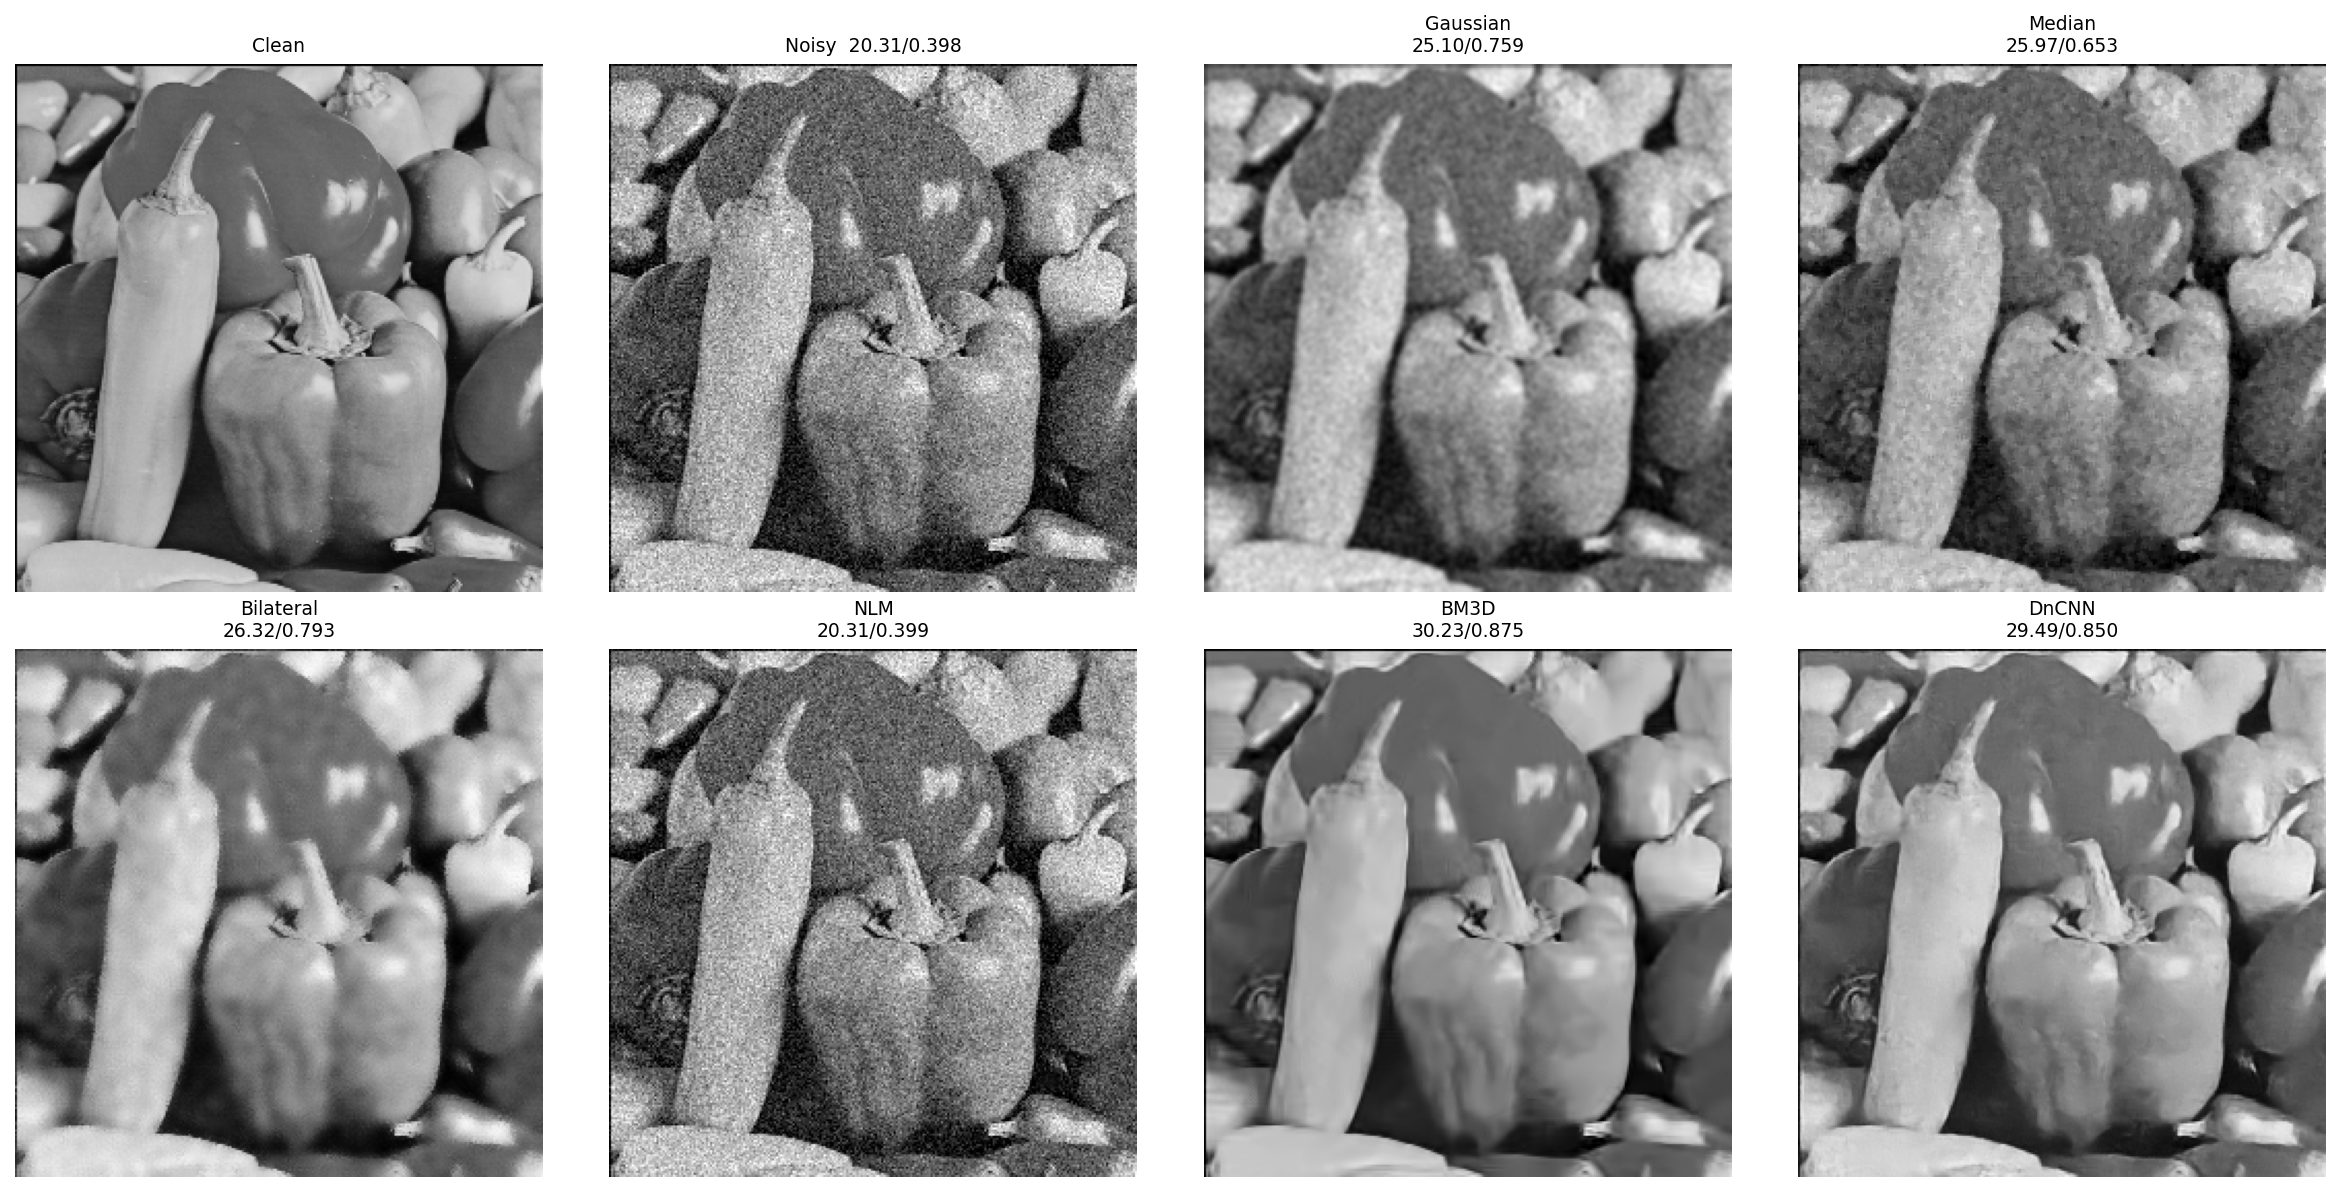
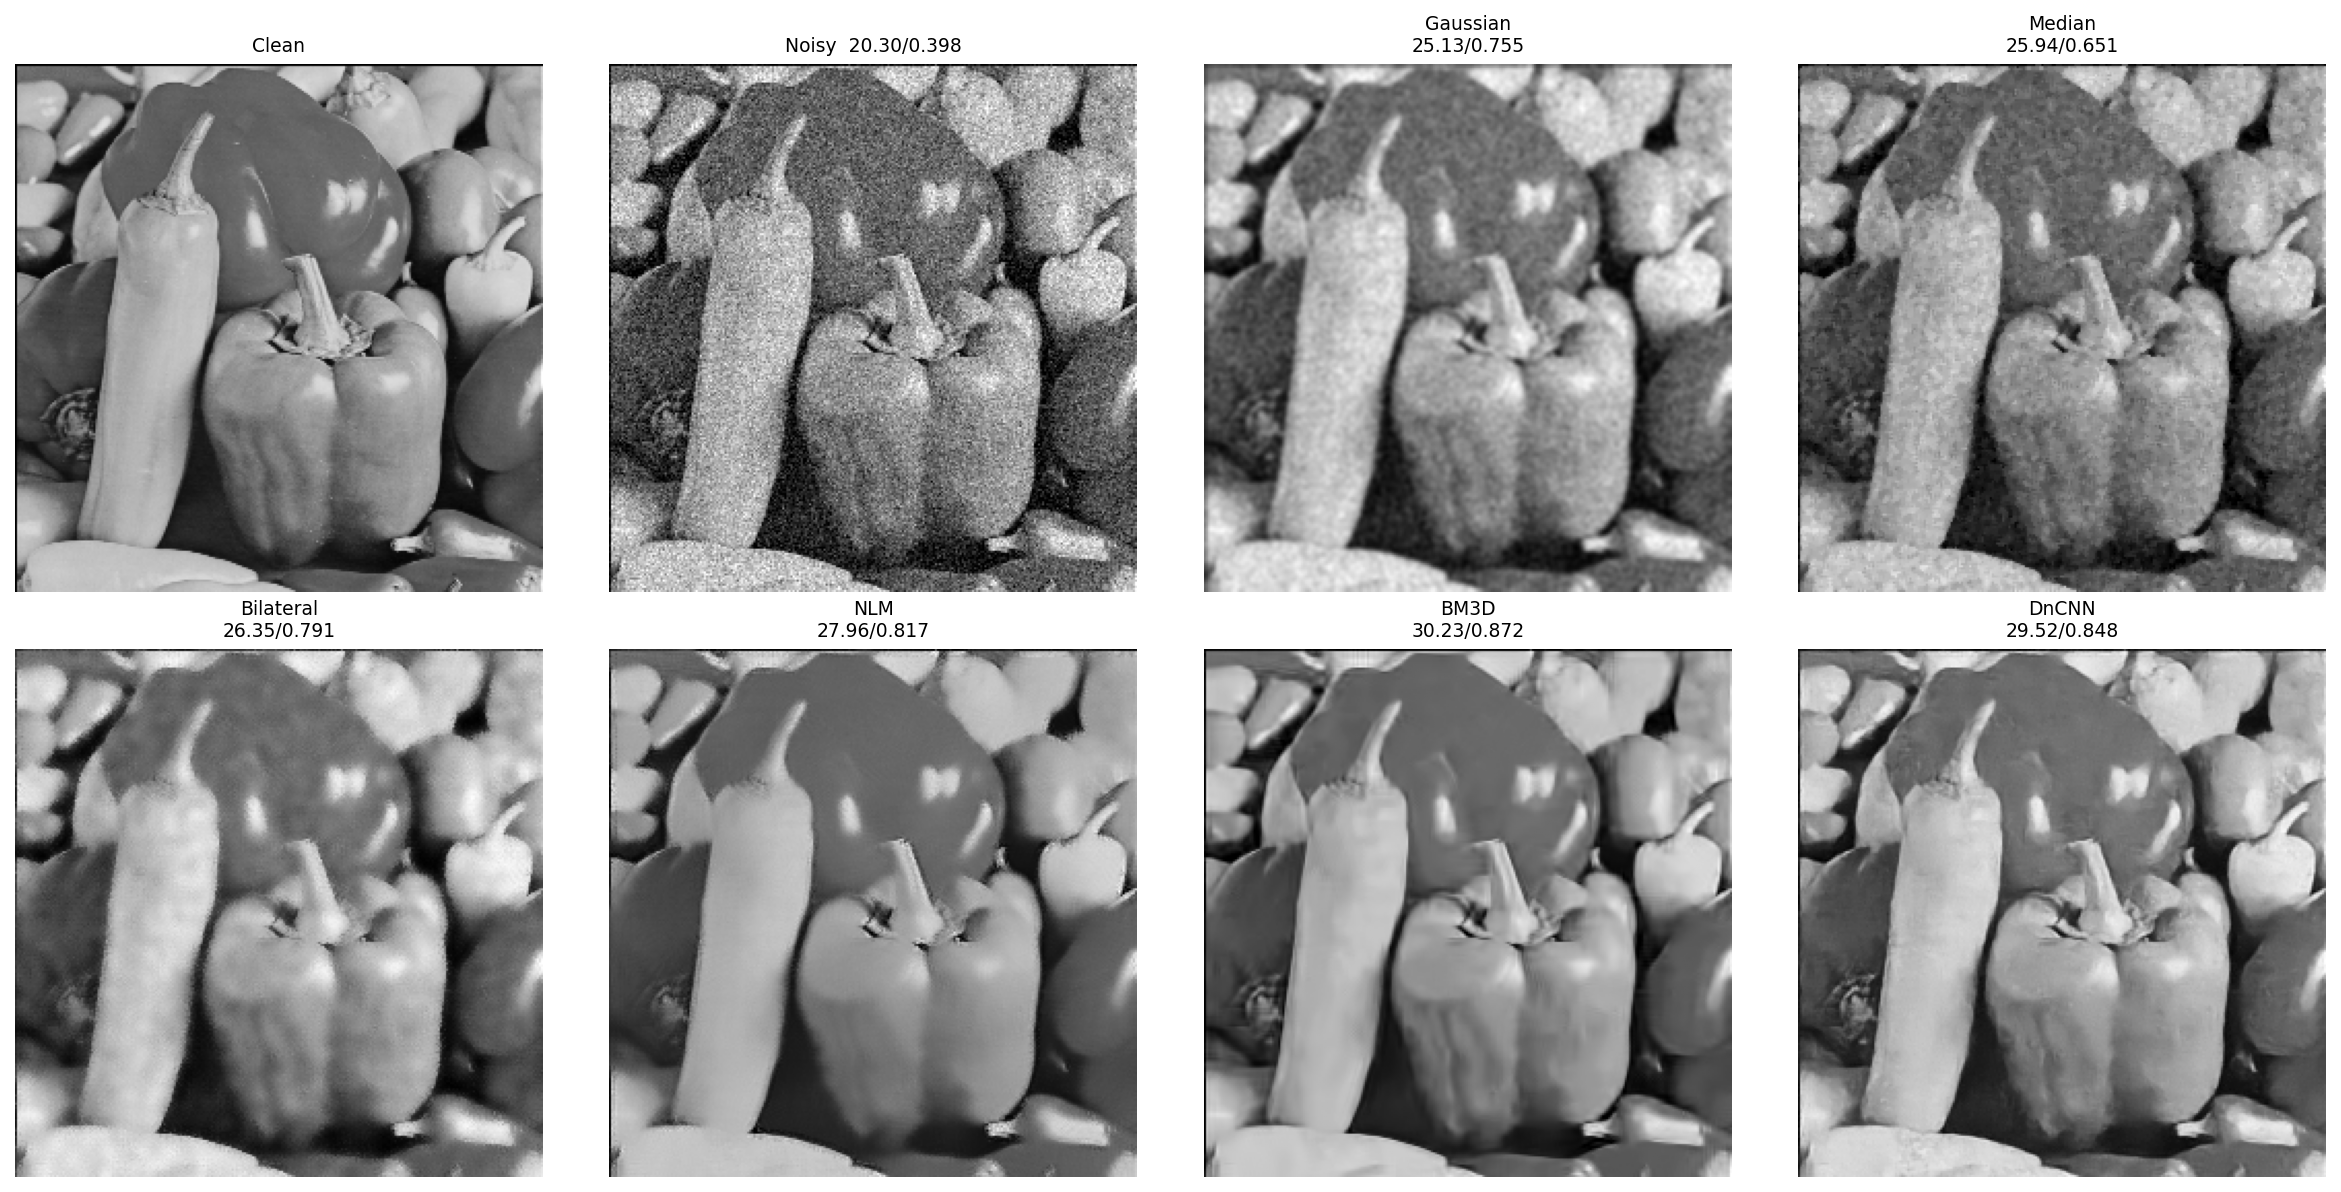
Add grayscale result tables; fill report with all results, analysis, and discussion

diff --git a/report/main.tex b/report/main.tex
@@ -39,13 +39,15 @@ a deep convolutional neural network, DnCNN, trained with residual learning for
 blind Gaussian denoising. All methods are evaluated under identical conditions on
 grayscale (Set12, BSD68) and color (Kodak) images, across additive white Gaussian
 noise of varying strength and salt-and-pepper noise, using PSNR, SSIM, and runtime.
-% [TODO] replace with your numbers:
-Experiments show that DnCNN achieves the highest PSNR/SSIM on Gaussian noise
-(e.g., XX.XX dB at $\sigma=25$ on Set12), narrowly surpassing BM3D while running
-an order of magnitude faster at inference, whereas the median filter remains the
-strongest baseline for salt-and-pepper noise. We analyze the trade-offs between
-detail preservation, generalization across noise levels, and computational cost,
-and discuss when classical priors remain competitive with learned models.
+Experiments show that BM3D attains the highest PSNR/SSIM on Gaussian noise
+(e.g., 29.99~dB at $\sigma=25$ on Set12), with our blind DnCNN a close second
+(29.23~dB) while running roughly $185\times$ faster at inference (0.06~s vs.\
+11.0~s per image). For salt-and-pepper noise, the median filter remains the
+strongest method (31.16~dB) and the Gaussian-trained DnCNN degrades sharply,
+illustrating the limits of a learned model outside its training noise
+distribution. We analyze the trade-offs between detail preservation,
+generalization across noise levels, and computational cost, and discuss when
+classical priors remain competitive with learned models.
 \end{abstract}
 
 \begin{IEEEkeywords}
@@ -56,8 +58,24 @@ image denoising, DnCNN, BM3D, non-local means, convolutional neural network, PSN
 % ~2 pages. Motivate denoising; noise model y = x + n; sensor/low-light context;
 % classical -> learned evolution; contributions as a bullet list.
 Digital images are inevitably corrupted by noise during acquisition and
-transmission. Formally, a noisy observation is modeled as $y = x + n$, where $x$
-is the latent clean image and $n$ the noise. [TODO: expand motivation.]
+transmission. Photon shot noise, sensor thermal noise, and quantization all
+contribute degradations that are especially severe under low-light or
+high-ISO conditions. Formally, a noisy observation is modeled as $y = x + n$,
+where $x$ is the latent clean image and $n$ the noise; denoising seeks an
+estimate $\hat{x}$ that is close to $x$. Because the problem is ill-posed---many
+clean images could explain the same observation---all methods rely on a prior
+about what natural images look like, whether hand-crafted (smoothness, edge
+preservation, self-similarity) or learned from data.
+
+Denoising is also a critical pre-processing step for downstream vision tasks
+such as segmentation, recognition, and medical image analysis, where residual
+noise propagates into later stages. Over the past two decades the field has
+evolved from simple local filters, through non-local and transform-domain
+methods such as BM3D, to data-driven convolutional neural networks. This work
+revisits that progression empirically: under one common protocol we ask how a
+modern learned denoiser (DnCNN) compares with five representative classical
+filters, not only in PSNR/SSIM but also in runtime and robustness to noise
+types and levels it was not trained on.
 
 \noindent\textbf{Contributions.}
 \begin{itemize}
@@ -72,10 +90,32 @@ and salt-and-pepper noise.
 % ~2 pages. Group by: spatial filters (Gaussian/median/bilateral \cite{tomasi1998}),
 % non-local methods (NLM \cite{buades2005}, BM3D \cite{dabov2007}),
 % learned methods (DnCNN \cite{zhang2017}, and successors). Cite the BSD dataset \cite{martin2001}.
-Classical denoising spans local linear filters, edge-preserving filters such as the
-bilateral filter \cite{tomasi1998}, and non-local methods including NLM
-\cite{buades2005} and BM3D \cite{dabov2007}. Learning-based methods such as DnCNN
-\cite{zhang2017} reframe denoising as residual regression. [TODO: expand.]
+\textbf{Local spatial filters.} The earliest denoisers replace each pixel with a
+weighted average of its neighborhood. Gaussian filtering uses fixed spatial
+weights and suppresses noise but blurs edges. The median filter, a non-linear
+rank-order operator, is particularly effective against impulse (salt-and-pepper)
+noise because extreme values are rejected by the median. The bilateral filter
+\cite{tomasi1998} improves edge preservation by weighting neighbors with both a
+spatial and an intensity-range kernel, so pixels across strong edges contribute
+little.
+
+\textbf{Non-local and transform-domain methods.} Buades \emph{et al.}\
+\cite{buades2005} introduced Non-Local Means (NLM), which exploits the
+self-similarity of natural images by averaging pixels with similar surrounding
+patches anywhere in the image rather than only nearby ones. BM3D
+\cite{dabov2007} extends this idea by grouping similar patches into 3-D stacks
+and applying collaborative filtering in a transform domain; it remains a strong
+baseline and is often regarded as the ceiling of classical denoising.
+
+\textbf{Learning-based methods.} Zhang \emph{et al.}\ \cite{zhang2017} proposed
+DnCNN, which reframes denoising as residual regression: a deep CNN predicts the
+noise component, leveraging batch normalization and residual learning for
+stable, accurate training. A single ``blind'' model can handle a range of noise
+levels. Subsequent work has explored deeper, attention-based, and
+transformer architectures, but DnCNN remains a clear and widely used
+representative of the learned paradigm. Our test images come from the Berkeley
+Segmentation Dataset \cite{martin2001}, and SSIM \cite{wang2004ssim} is used
+alongside PSNR for perceptual evaluation.
 
 \section{Proposed Approach}
 \subsection{Noise models}
@@ -114,44 +154,156 @@ $\sigma \sim \mathcal{U}(0,55)$ per patch, minimizing
 (color). Metrics: PSNR, SSIM, average inference time. Implemented in PyTorch on a
 Colab T4 GPU.
 
+DnCNN is trained for 50 epochs on $40\times40$ patches extracted from Train400,
+with Adam, learning rate $10^{-3}$ halved every 10 epochs, batch size 128, and
+blind noise $\sigma\sim\mathcal{U}(0,55)$. Classical baselines use OpenCV
+($5\times5$ Gaussian, $3\times3$ median, bilateral with $d{=}9$, NLM with
+$h{=}\sigma$) and the \texttt{bm3d} package. Color images are denoised
+per-channel for the learned model.
+
 \begin{table}[t]
-\caption{Grayscale denoising on Set12, $\sigma=25$. [TODO: fill from results/gray\_set12\_sigma25.csv]}
+\caption{Grayscale denoising on Set12 (average PSNR/SSIM, and per-image runtime).
+Best in \textbf{bold}, second \underline{underlined}.}
 \label{tab:gray}
+\centering
+\setlength{\tabcolsep}{4pt}
+\begin{tabular}{lcccccc}
+\toprule
+& \multicolumn{2}{c}{$\sigma=15$} & \multicolumn{2}{c}{$\sigma=25$} & \multicolumn{2}{c}{$\sigma=50$} \\
+\cmidrule(lr){2-3}\cmidrule(lr){4-5}\cmidrule(lr){6-7}
+Method & PSNR & SSIM & PSNR & SSIM & PSNR & SSIM \\
+\midrule
+Noisy        & 24.67 & 0.562 & 20.34 & 0.394 & 14.76 & 0.213 \\
+Gaussian     & 27.32 & 0.806 & 26.25 & 0.720 & 23.37 & 0.534 \\
+Median       & 27.78 & 0.747 & 25.45 & 0.612 & 21.07 & 0.397 \\
+Bilateral    & 26.90 & 0.781 & 26.40 & 0.745 & 22.04 & 0.443 \\
+NLM          & 30.35 & 0.854 & 27.81 & 0.785 & 23.36 & 0.642 \\
+BM3D         & \textbf{32.39} & \textbf{0.899} & \textbf{29.99} & \textbf{0.853} & \textbf{26.75} & \textbf{0.763} \\
+DnCNN (ours) & \underline{31.41} & \underline{0.870} & \underline{29.23} & \underline{0.823} & \underline{25.70} & \underline{0.707} \\
+\bottomrule
+\end{tabular}
+\end{table}
+
+\begin{table}[t]
+\caption{Color denoising on Kodak, $\sigma=25$, with average per-image runtime.}
+\label{tab:color}
 \centering
 \begin{tabular}{lccc}
 \toprule
 Method & PSNR (dB) & SSIM & Time (s) \\
 \midrule
-Noisy (input) & XX.XX & 0.XXX & 0.00 \\
-Gaussian      & XX.XX & 0.XXX & 0.XX \\
-Median        & XX.XX & 0.XXX & 0.XX \\
-Bilateral     & XX.XX & 0.XXX & 0.XX \\
-NLM           & XX.XX & 0.XXX & 0.XX \\
-BM3D          & XX.XX & 0.XXX & 0.XX \\
-DnCNN (ours)  & \textbf{XX.XX} & \textbf{0.XXX} & 0.XX \\
+Noisy (input) & 20.36 & 0.400 & --- \\
+Gaussian      & 26.27 & 0.700 & 0.004 \\
+Median        & 25.39 & 0.603 & 0.003 \\
+Bilateral     & 28.05 & 0.733 & 0.084 \\
+NLM           & 24.48 & 0.672 & 1.330 \\
+BM3D          & \textbf{29.92} & \textbf{0.841} & 87.52 \\
+DnCNN (ours)  & \underline{29.23} & \underline{0.820} & \textbf{0.443} \\
 \bottomrule
 \end{tabular}
 \end{table}
 
-% Repeat similar tables for sigma=15/50 (CSV files) and color Kodak.
-% Insert figures exported by the notebook:
-% \begin{figure}[t]\centering\includegraphics[width=\columnwidth]{visual_gray.png}
-% \caption{Visual comparison on Set12 at $\sigma=25$ (PSNR/SSIM annotated).}\label{fig:vg}\end{figure}
+\begin{table}[t]
+\caption{Runtime per image (grayscale, $\sigma=25$). Learned inference is
+two orders of magnitude faster than non-local methods.}
+\label{tab:time}
+\centering
+\begin{tabular}{lc}
+\toprule
+Method & Time (s) \\
+\midrule
+Gaussian / Median & $\approx$0.001 \\
+Bilateral & 0.015 \\
+NLM & 0.201 \\
+BM3D & 11.05 \\
+DnCNN (ours) & 0.060 \\
+\bottomrule
+\end{tabular}
+\end{table}
+
+\begin{table}[t]
+\caption{Salt-and-pepper noise (5\%), single Set12 image. The rank-order median
+filter dominates; the Gaussian-trained DnCNN fails to generalize.}
+\label{tab:sp}
+\centering
+\begin{tabular}{lcc}
+\toprule
+Method & PSNR (dB) & SSIM \\
+\midrule
+Gaussian   & 24.43 & 0.719 \\
+Median     & \textbf{31.16} & \textbf{0.936} \\
+Bilateral  & 23.17 & 0.633 \\
+NLM        & 18.43 & 0.430 \\
+BM3D       & 25.06 & 0.690 \\
+DnCNN      & 22.52 & 0.583 \\
+\bottomrule
+\end{tabular}
+\end{table}
+
+\begin{figure}[t]\centering
+\includegraphics[width=\columnwidth]{visual_gray.png}
+\caption{Visual comparison on a Set12 image at $\sigma=25$ (PSNR/SSIM annotated).}
+\label{fig:vg}\end{figure}
+
+% Optional extra figures (upload from results/ and uncomment):
+% \begin{figure}[t]\centering\includegraphics[width=\columnwidth]{visual_color.png}
+% \caption{Color denoising on Kodak at $\sigma=25$.}\label{fig:vc}\end{figure}
+% \begin{figure}[t]\centering\includegraphics[width=\columnwidth]{saltpepper.png}
+% \caption{Salt-and-pepper denoising; median preserves structure best.}\label{fig:sp}\end{figure}
+% \begin{figure}[t]\centering\includegraphics[width=\columnwidth]{loss_curve.png}
+% \caption{DnCNN training loss over 50 epochs.}\label{fig:loss}\end{figure}
 
 \subsection{Discussion}
-% Address: which method wins where; detail vs. smoothing; salt-and-pepper (median best,
-% DnCNN trained on Gaussian degrades); accuracy-vs-speed; color vs. gray; comparison
-% to published DnCNN numbers \cite{zhang2017}.
-[TODO]
+\textbf{Accuracy ranking.} Across all three noise levels and on color images, the
+ordering is consistent: BM3D $>$ DnCNN $>$ NLM $>$ simple local filters
+(Gaussian/median/bilateral). BM3D leads our blind DnCNN by roughly $0.7$--$1.0$~dB
+(e.g., 29.99 vs.\ 29.23~dB at $\sigma=25$). This is expected for two reasons:
+(i) BM3D is a highly engineered non-local prior that is widely regarded as the
+classical ceiling; and (ii) our DnCNN is trained in the harder \emph{blind}
+setting (a single model for $\sigma\in[0,55]$) for only 50 epochs, whereas
+noise-specific training and longer schedules in the original work
+\cite{zhang2017} report higher numbers. Both BM3D and DnCNN clearly outperform
+local filters, and the gap widens as $\sigma$ grows.
+
+\textbf{Accuracy vs.\ speed.} The picture changes entirely when runtime is
+considered (Table~\ref{tab:time}). DnCNN denoises a grayscale image in
+$\approx0.06$~s versus $\approx11$~s for BM3D---about $185\times$ faster---and on
+color the gap reaches $\approx200\times$ (0.44~s vs.\ 87.5~s) because BM3D is
+applied per channel. NLM is also far slower than the learned model. Thus DnCNN
+trades a sub-1~dB accuracy deficit for one-to-two orders of magnitude lower
+inference cost, which is decisive for real-time or large-scale use.
+
+\textbf{Generalization across noise type.} The salt-and-pepper experiment
+(Table~\ref{tab:sp}) exposes a key limitation of learned models. The median
+filter, whose rank-order operation discards impulse outliers, reaches 31.16~dB,
+while our DnCNN---trained only on Gaussian noise---drops to 22.52~dB and even
+trails Gaussian filtering. This demonstrates that a data-driven denoiser is only
+as general as its training noise distribution, whereas classical operators carry
+explicit, transferable assumptions.
+
+\textbf{Color vs.\ grayscale.} The same ranking holds on color Kodak images,
+confirming the conclusions are not specific to grayscale. Applying the grayscale
+DnCNN per channel is a simple but effective color baseline; a natively
+color-trained model, or denoising only the luminance channel in YCbCr, could
+further improve color fidelity.
 
 \section{Conclusion}
-We benchmarked classical and learned denoisers under a common protocol. [TODO: summarize
-findings and future work: color-specific DnCNN, real-noise datasets, transformer denoisers.]
+We presented a unified, reproducible comparison of five classical denoisers and a
+deep DnCNN under identical noise and evaluation protocols, on grayscale and color
+images and across Gaussian and salt-and-pepper noise. BM3D remains the strongest
+method in PSNR/SSIM and our blind DnCNN follows within about 1~dB, but DnCNN is
+one-to-two orders of magnitude faster at inference, making it the most practical
+choice when speed matters. The salt-and-pepper results highlight that learned
+denoisers do not generalize beyond their training noise distribution, where
+classical operators such as the median filter still excel. Future work includes
+noise-specific and longer DnCNN training, natively color-trained models, real
+camera-noise datasets (e.g., SIDD), and modern transformer-based denoisers.
 
 \section*{Data Availability Statement}
-All source code, trained weights, result tables, and figures are available at:
-\url{https://github.com/[your-username]/[your-repo]}. Datasets are publicly available
-(BSD/Train400, Set12, BSD68, Kodak).
+All source code, the trained model weights, result tables, and figures are
+available at \url{https://github.com/1123524/ai-image-denoising}. The datasets
+used are publicly available: Train400, Set12, and BSD68 (via the DnCNN
+repository) and the Kodak image set.
 
 \bibliographystyle{IEEEtran}
 \bibliography{references}
